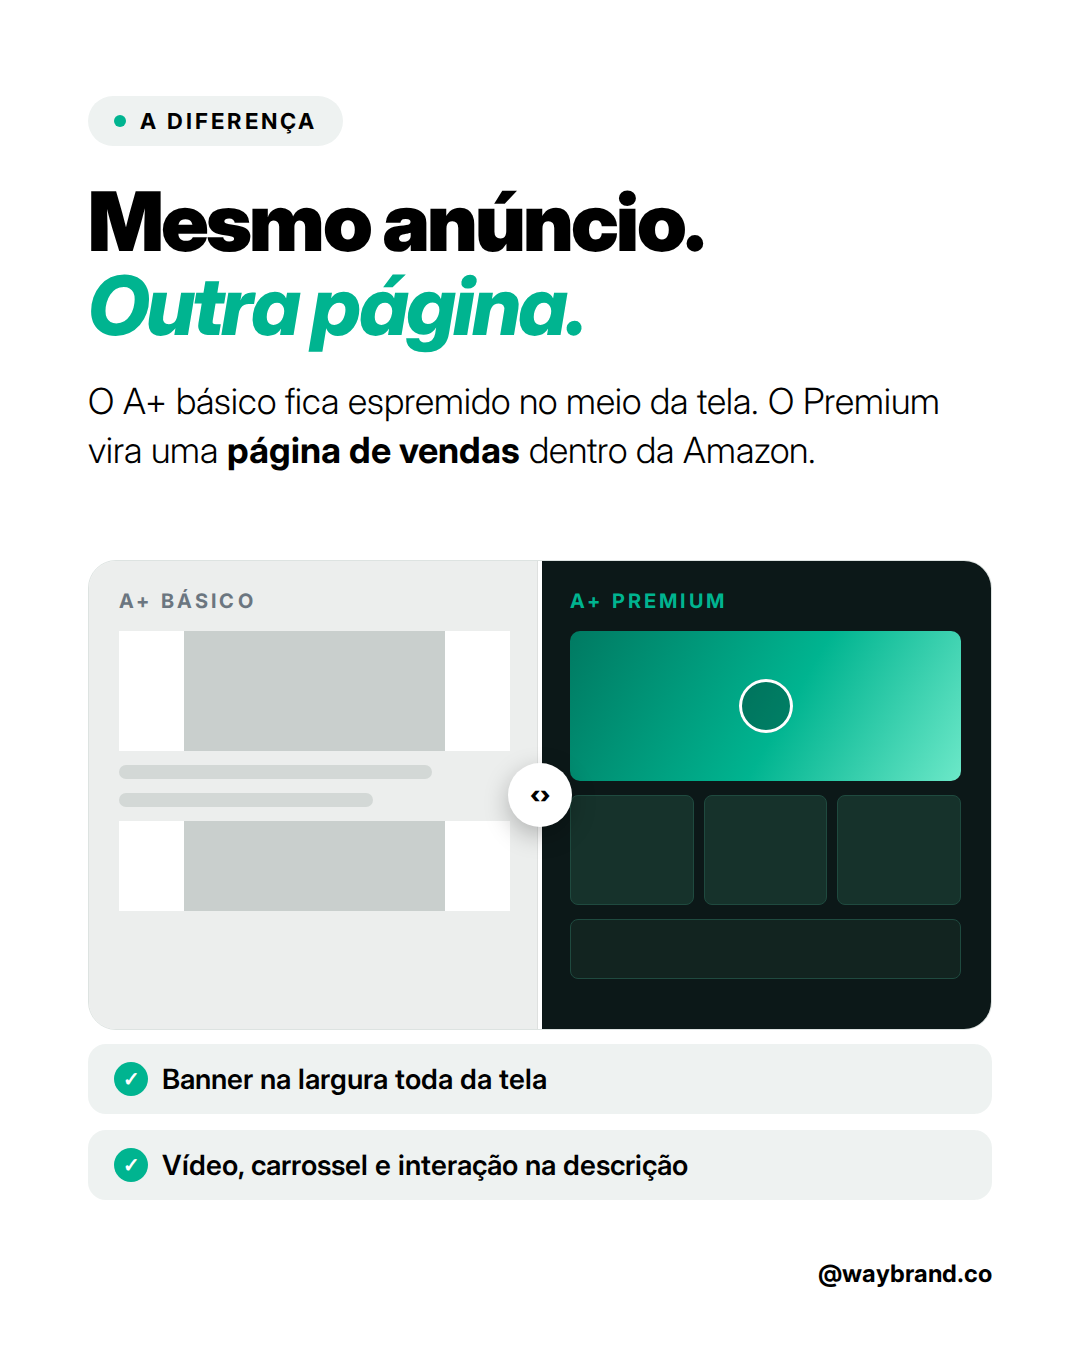
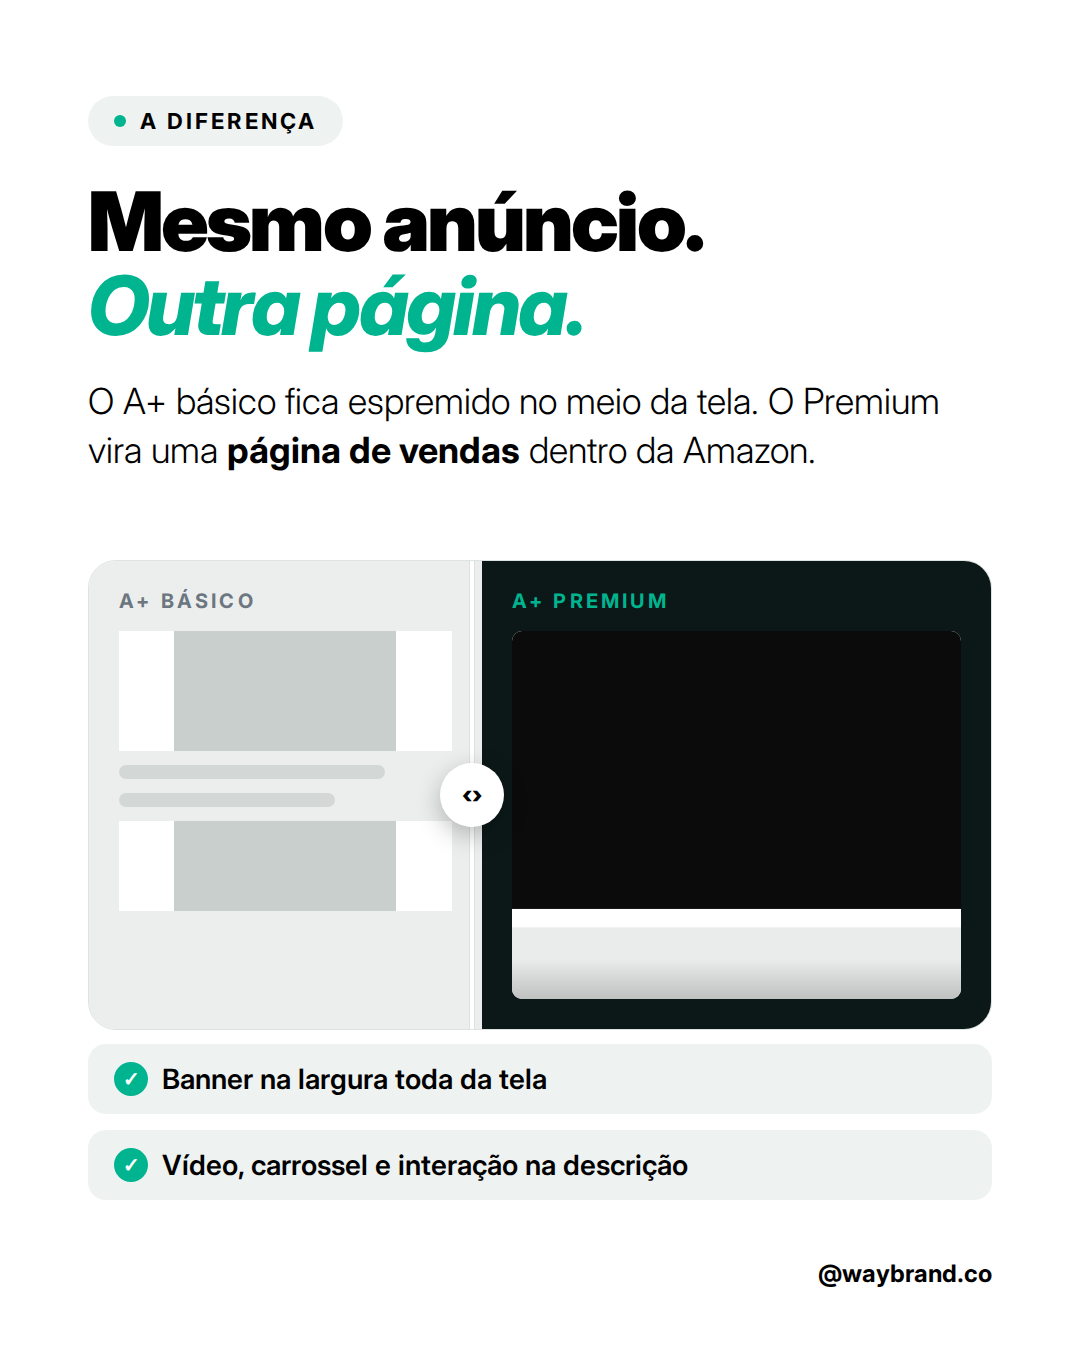
C04 slide 3: painel A+ Premium com rolagem em vídeo (aguardando captura da JBL)
Claude-Session: https://claude.ai/code/session_01AheN544mCiruarsAxNti7D

Changed region(s): [[0.3056, 0.4044, 0.9167, 0.7778], [0.1528, 0.5911, 0.1833, 0.6844], [0.1528, 0.4667, 0.1833, 0.56]]

diff --git a/instagram/c04-a-plus-premium/index.html b/instagram/c04-a-plus-premium/index.html
@@ -118,14 +118,17 @@
   .ba .before .row .w{flex:.5;background:#fff}
   .ba .before .row .c{flex:2;background:#c9cfcd}
   .ba .line{height:14px;border-radius:7px;background:#d3d8d6}
-  .ba .after{background:#0C1818}
+  .ba .after{background:#0C1818;flex:1.35}
+  .ba .after .scrollwin{position:relative;flex:1;border-radius:10px;overflow:hidden;background:#fff}
+  .ba .after .scrollwin img{position:absolute;left:0;top:0;width:100%;height:auto;transform:translateY(calc(var(--p,0) * (var(--winh,0px) - var(--imgh,0px))))}
+  .ba .after .scrollwin:after{content:"";position:absolute;left:0;right:0;bottom:0;height:40px;background:linear-gradient(transparent,rgba(0,0,0,.18))}
   .ba .after .hero2{height:150px;border-radius:10px;background:linear-gradient(120deg,#007a62,#00B490 55%,#6CE8C8);position:relative}
   .ba .after .hero2:after{content:"";position:absolute;left:50%;top:50%;transform:translate(-50%,-50%);width:54px;height:54px;border-radius:50%;box-shadow:inset 0 0 0 3px #fff;background:rgba(0,0,0,.3)}
   .ba .after .g{display:grid;grid-template-columns:repeat(3,1fr);gap:10px;height:110px}
   .ba .after .g i{border-radius:8px;background:#16322b;border:1.5px solid #1f4a3f}
   .ba .after .qa{height:60px;border-radius:8px;background:#122420;border:1.5px solid #1f4a3f}
-  .divider{position:absolute;left:50%;top:0;bottom:0;width:4px;background:#fff;transform:translateX(-50%);box-shadow:0 0 0 1px rgba(0,0,0,.06)}
-  .knob{position:absolute;left:50%;top:50%;width:64px;height:64px;border-radius:50%;background:#fff;transform:translate(-50%,-50%);box-shadow:0 8px 24px rgba(0,0,0,.25);display:grid;place-items:center;font:800 24px/1 'Inter';color:#000}
+  .divider{position:absolute;left:42.5%;top:0;bottom:0;width:4px;background:#fff;transform:translateX(-50%);box-shadow:0 0 0 1px rgba(0,0,0,.06)}
+  .knob{position:absolute;left:42.5%;top:50%;width:64px;height:64px;border-radius:50%;background:#fff;transform:translate(-50%,-50%);box-shadow:0 8px 24px rgba(0,0,0,.25);display:grid;place-items:center;font:800 24px/1 'Inter';color:#000}
   .checks{position:absolute;left:88px;right:88px;bottom:150px;display:flex;flex-direction:column;gap:16px}
   .checks .chip{background:#EEF2F1;color:#000;font-weight:600}
 
@@ -207,7 +210,7 @@
   </div>
   <div class="ba">
     <div class="side before"><div class="t">A+ básico</div><div class="row"><div class="w"></div><div class="c"></div><div class="w"></div></div><div class="line" style="width:80%"></div><div class="line" style="width:65%"></div><div class="row" style="height:90px"><div class="w"></div><div class="c"></div><div class="w"></div></div></div>
-    <div class="side after"><div class="t">A+ Premium</div><div class="hero2"></div><div class="g"><i></i><i></i><i></i></div><div class="qa"></div></div>
+    <div class="side after"><div class="t">A+ Premium</div><div class="scrollwin"><img id="aplus" src="assets/jbl-aplus.png" alt="" onerror="this.src='assets/_placeholder-aplus.png'"></div></div>
     <div class="divider"></div><div class="knob">‹›</div>
   </div>
   <div class="checks">
